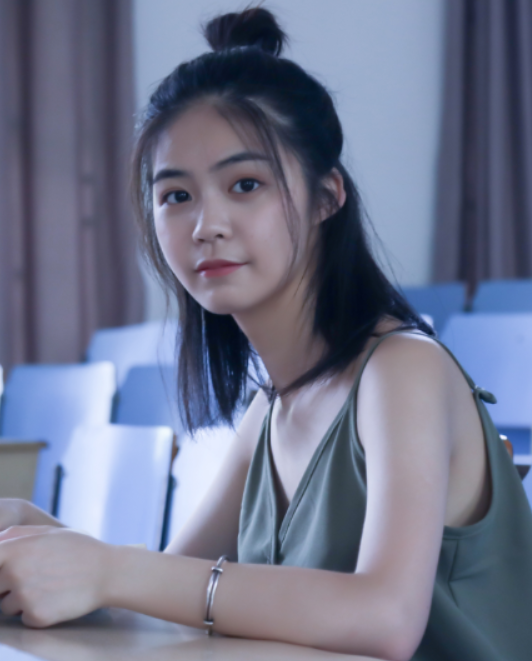
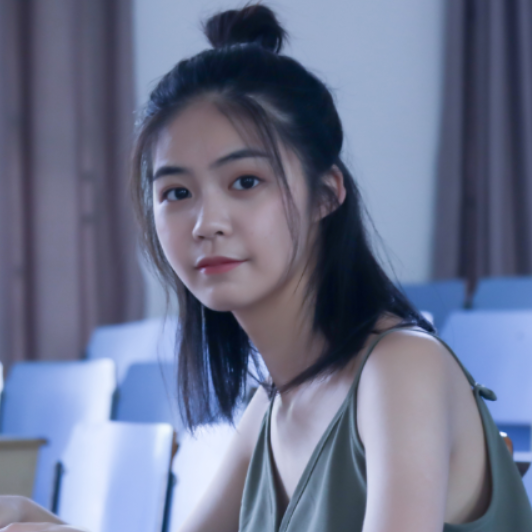
Added Dianne's info

diff --git a/src/components/infopage/infopage.js b/src/components/infopage/infopage.js
@@ -53,13 +53,18 @@ class InfoPage extends Component {
               <li>Frame showing detailed course information with bar charts for course parts and showing goal hours reached</li>
             </ul>
           <h2>Learning objectives reached</h2>
-            <p>Answer here...</p>
+            <p>We as a group worked towards making a comprehensible staffing tool that followed the visual information seeking mantra of: overview, zoom, filtering and details on demand. We learned 
+              to assess the functionality of a system for meeting end user needs by collaborating with our stakeholders, and by by learning to criticize a design from perspectives of effectiveness, 
+              efficiency, usability and usefulness we learned to improve our own. By building this tool we have learned the practical tools necessary to build interactive visualizations and design 
+              them in a way as to facilitate action and insights on our stakeholders behalf. Lastly we improved our presentation skills, both to peers and stakeholders with the feedback we received 
+              throughout the course.</p>
           <h2>Tools used</h2>
             <p className="project-tools"><b>D3</b> - JavaScript library to visualize data</p>
             <p className="project-tools"><b>React</b> - Front-end framework (JavaScript)</p>
             <p className="project-tools"><b>Firebase</b> - Page hosting</p>
             <p className="project-tools"><b>GitHub</b> - Version control</p>
             <p className="project-tools"><b>FB Messenger</b> - Communication tool</p>
+            <p className="project-tools"><b>Google Drive</b> - File sharing</p>
         </div>
 
         <div className="profiles">
@@ -125,17 +130,18 @@ class InfoPage extends Component {
               </Card.Body>
             </Card>
             <Card className="profile-cards" style={{ width: '20rem' }}>
-              <Card.Img variant="top" src="https://sarangglobaltours.com/wp-content/uploads/2014/02/team.png" />
+              <Card.Img variant="top" src={require("../../photos/dv.jpg")} />
               <Card.Body>
                 <Card.Title><b>Dianne Vasseur</b></Card.Title>
-                <Card.Subtitle className="mb-2 text-muted">Card Subtitle</Card.Subtitle>
+                <Card.Subtitle className="mb-2 text-muted">UI Design, Design Visual Structure</Card.Subtitle>
                 <Card.Text>
-                  Some quick example text to build on the card title and make up the bulk of
-                  the card's content.
+                Responsible for the design of the Staffiz visualizations, together with two team members. Researching what has been done and performing 
+                brainstorm sessions to come up with a design that is informative, as well as esthetically pleasing and user friendly. Also gained some 
+                step-by-step front-end experience by attempting to partially create the detailed course overview in the React environment.
                 </Card.Text>
-                <Card.Link href="#">Mail</Card.Link>
-                <Card.Link href="#">GitHub</Card.Link>
-                <Card.Link href="#">LinkedIn</Card.Link>
+                <Card.Link href="mailto:dmva@kth.se">Mail</Card.Link>
+                <Card.Link href="https://github.com/Dmvasseur">GitHub</Card.Link>
+                <Card.Link href="https://www.linkedin.com/in/dianne-vasseur-ba06a0133/">LinkedIn</Card.Link>
               </Card.Body>
             </Card>
             <Card className="profile-cards" style={{ width: '20rem' }}>
